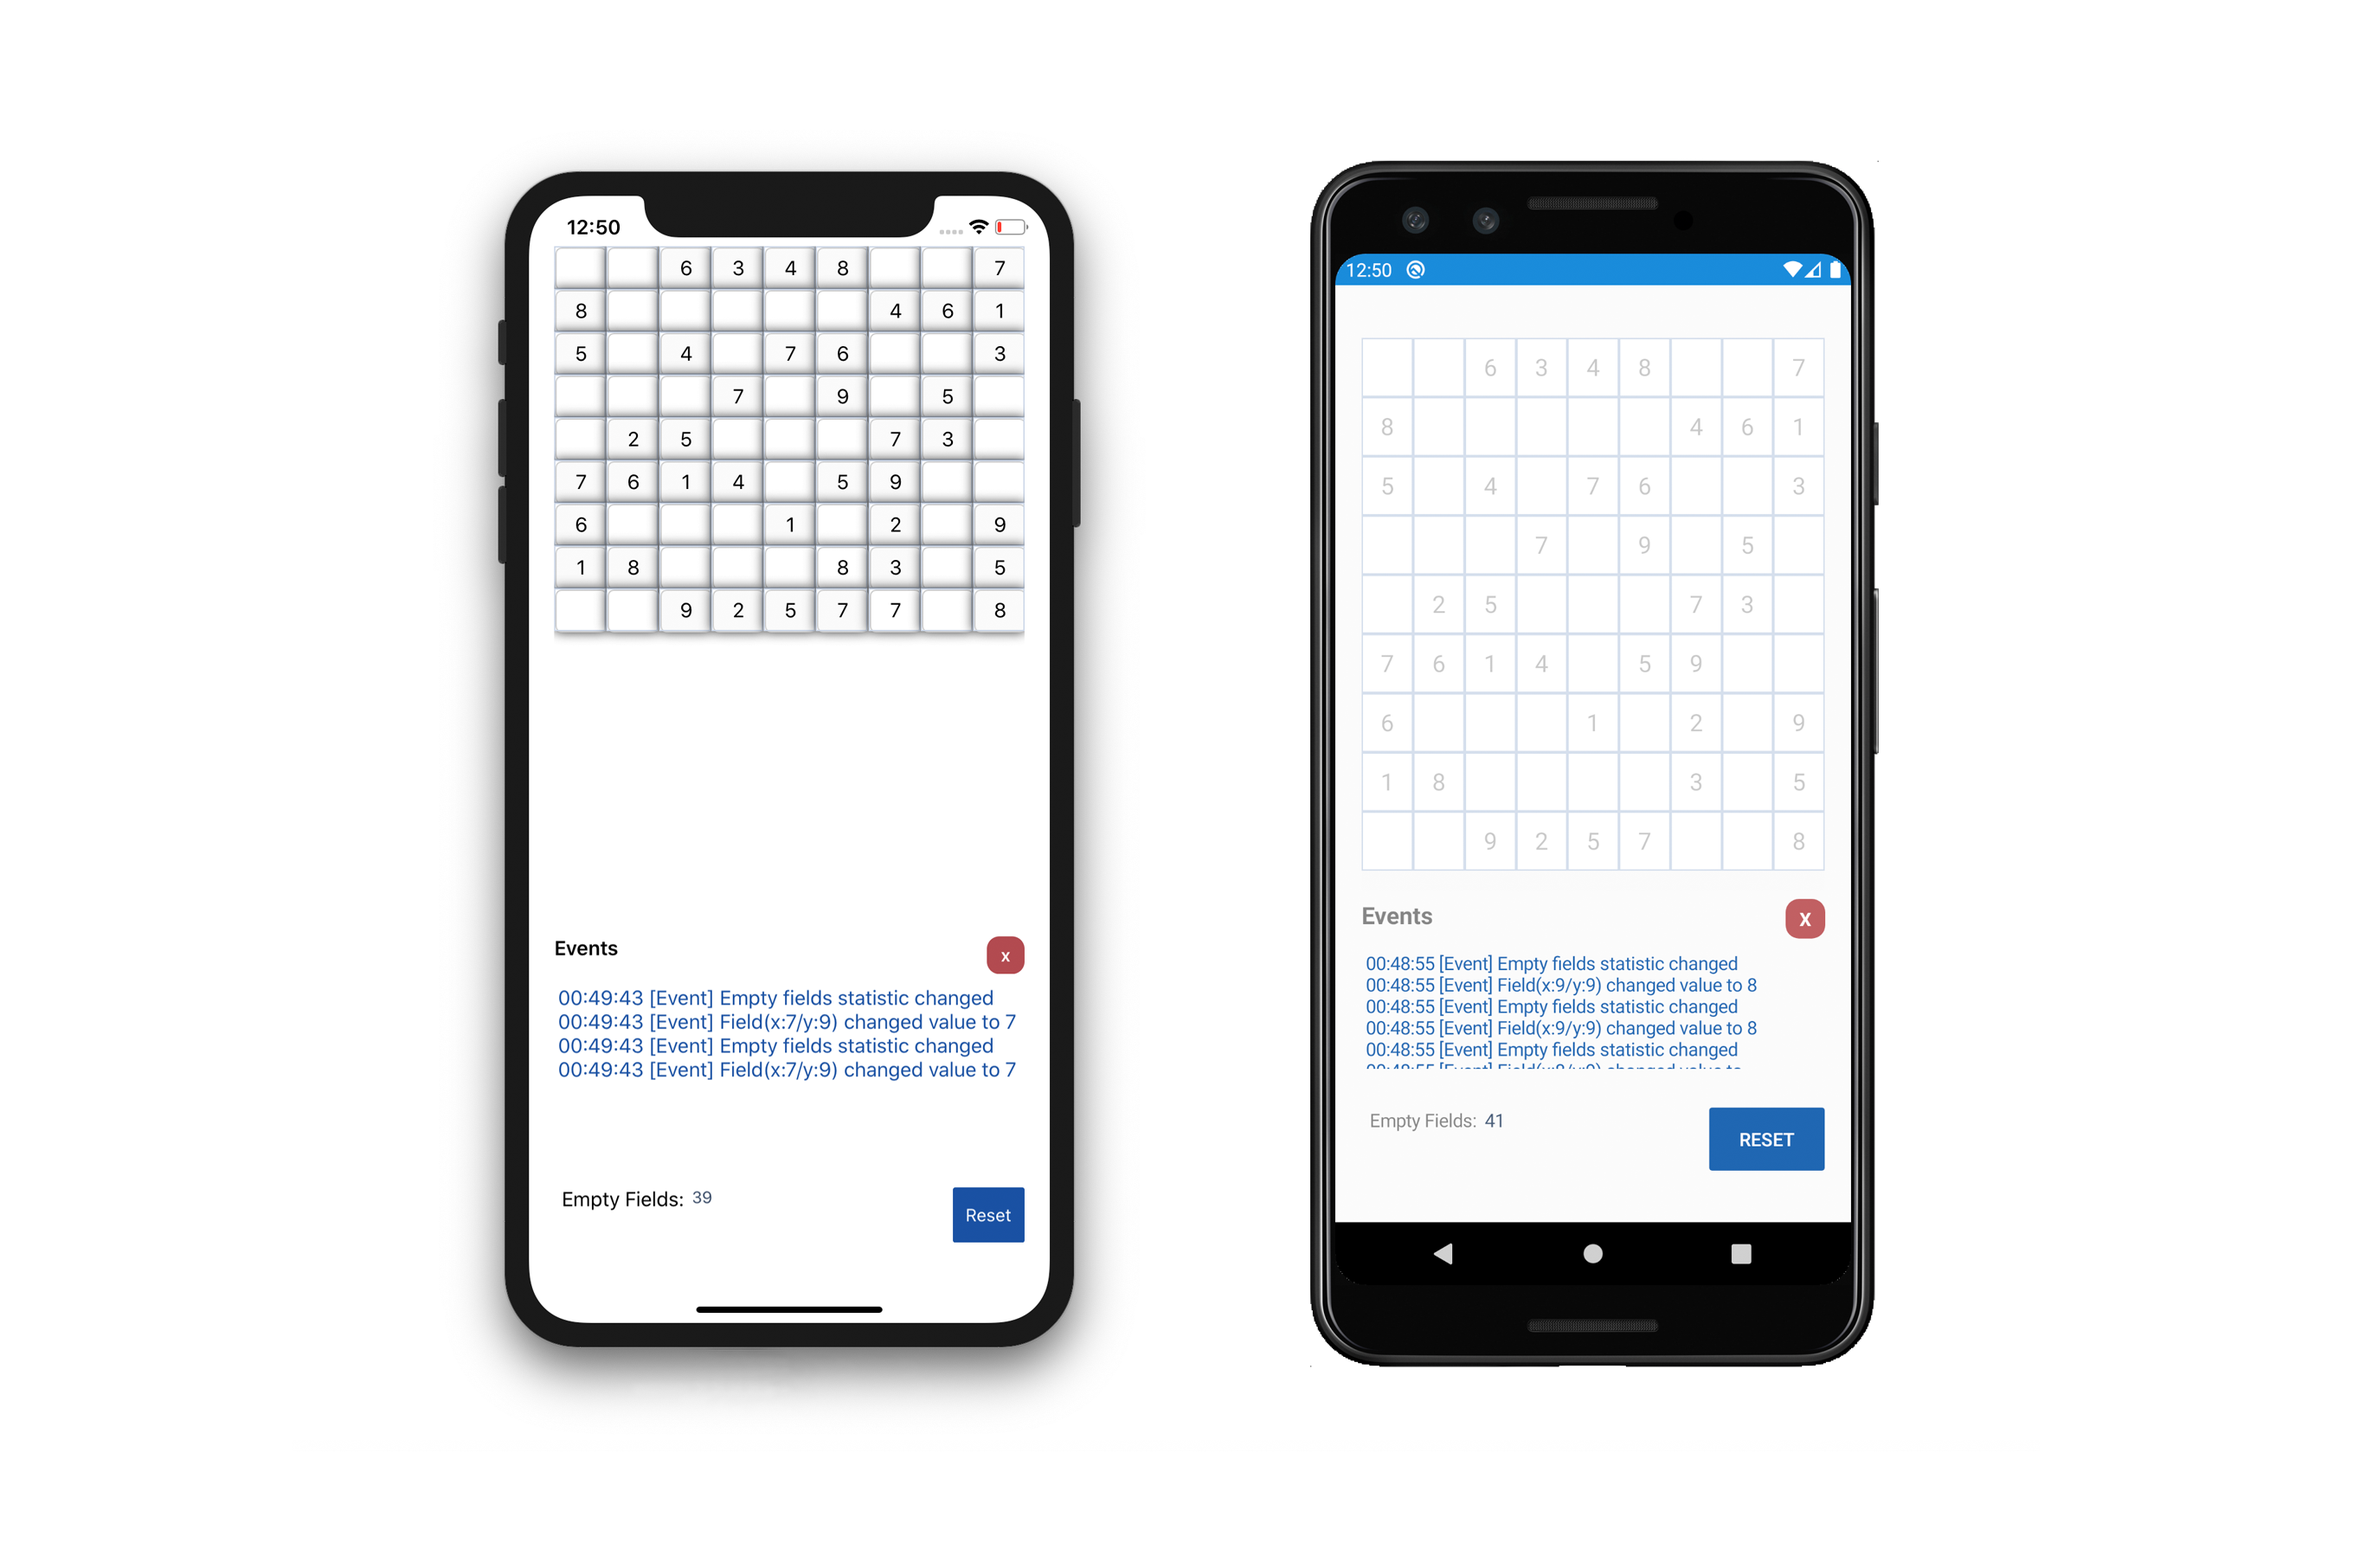
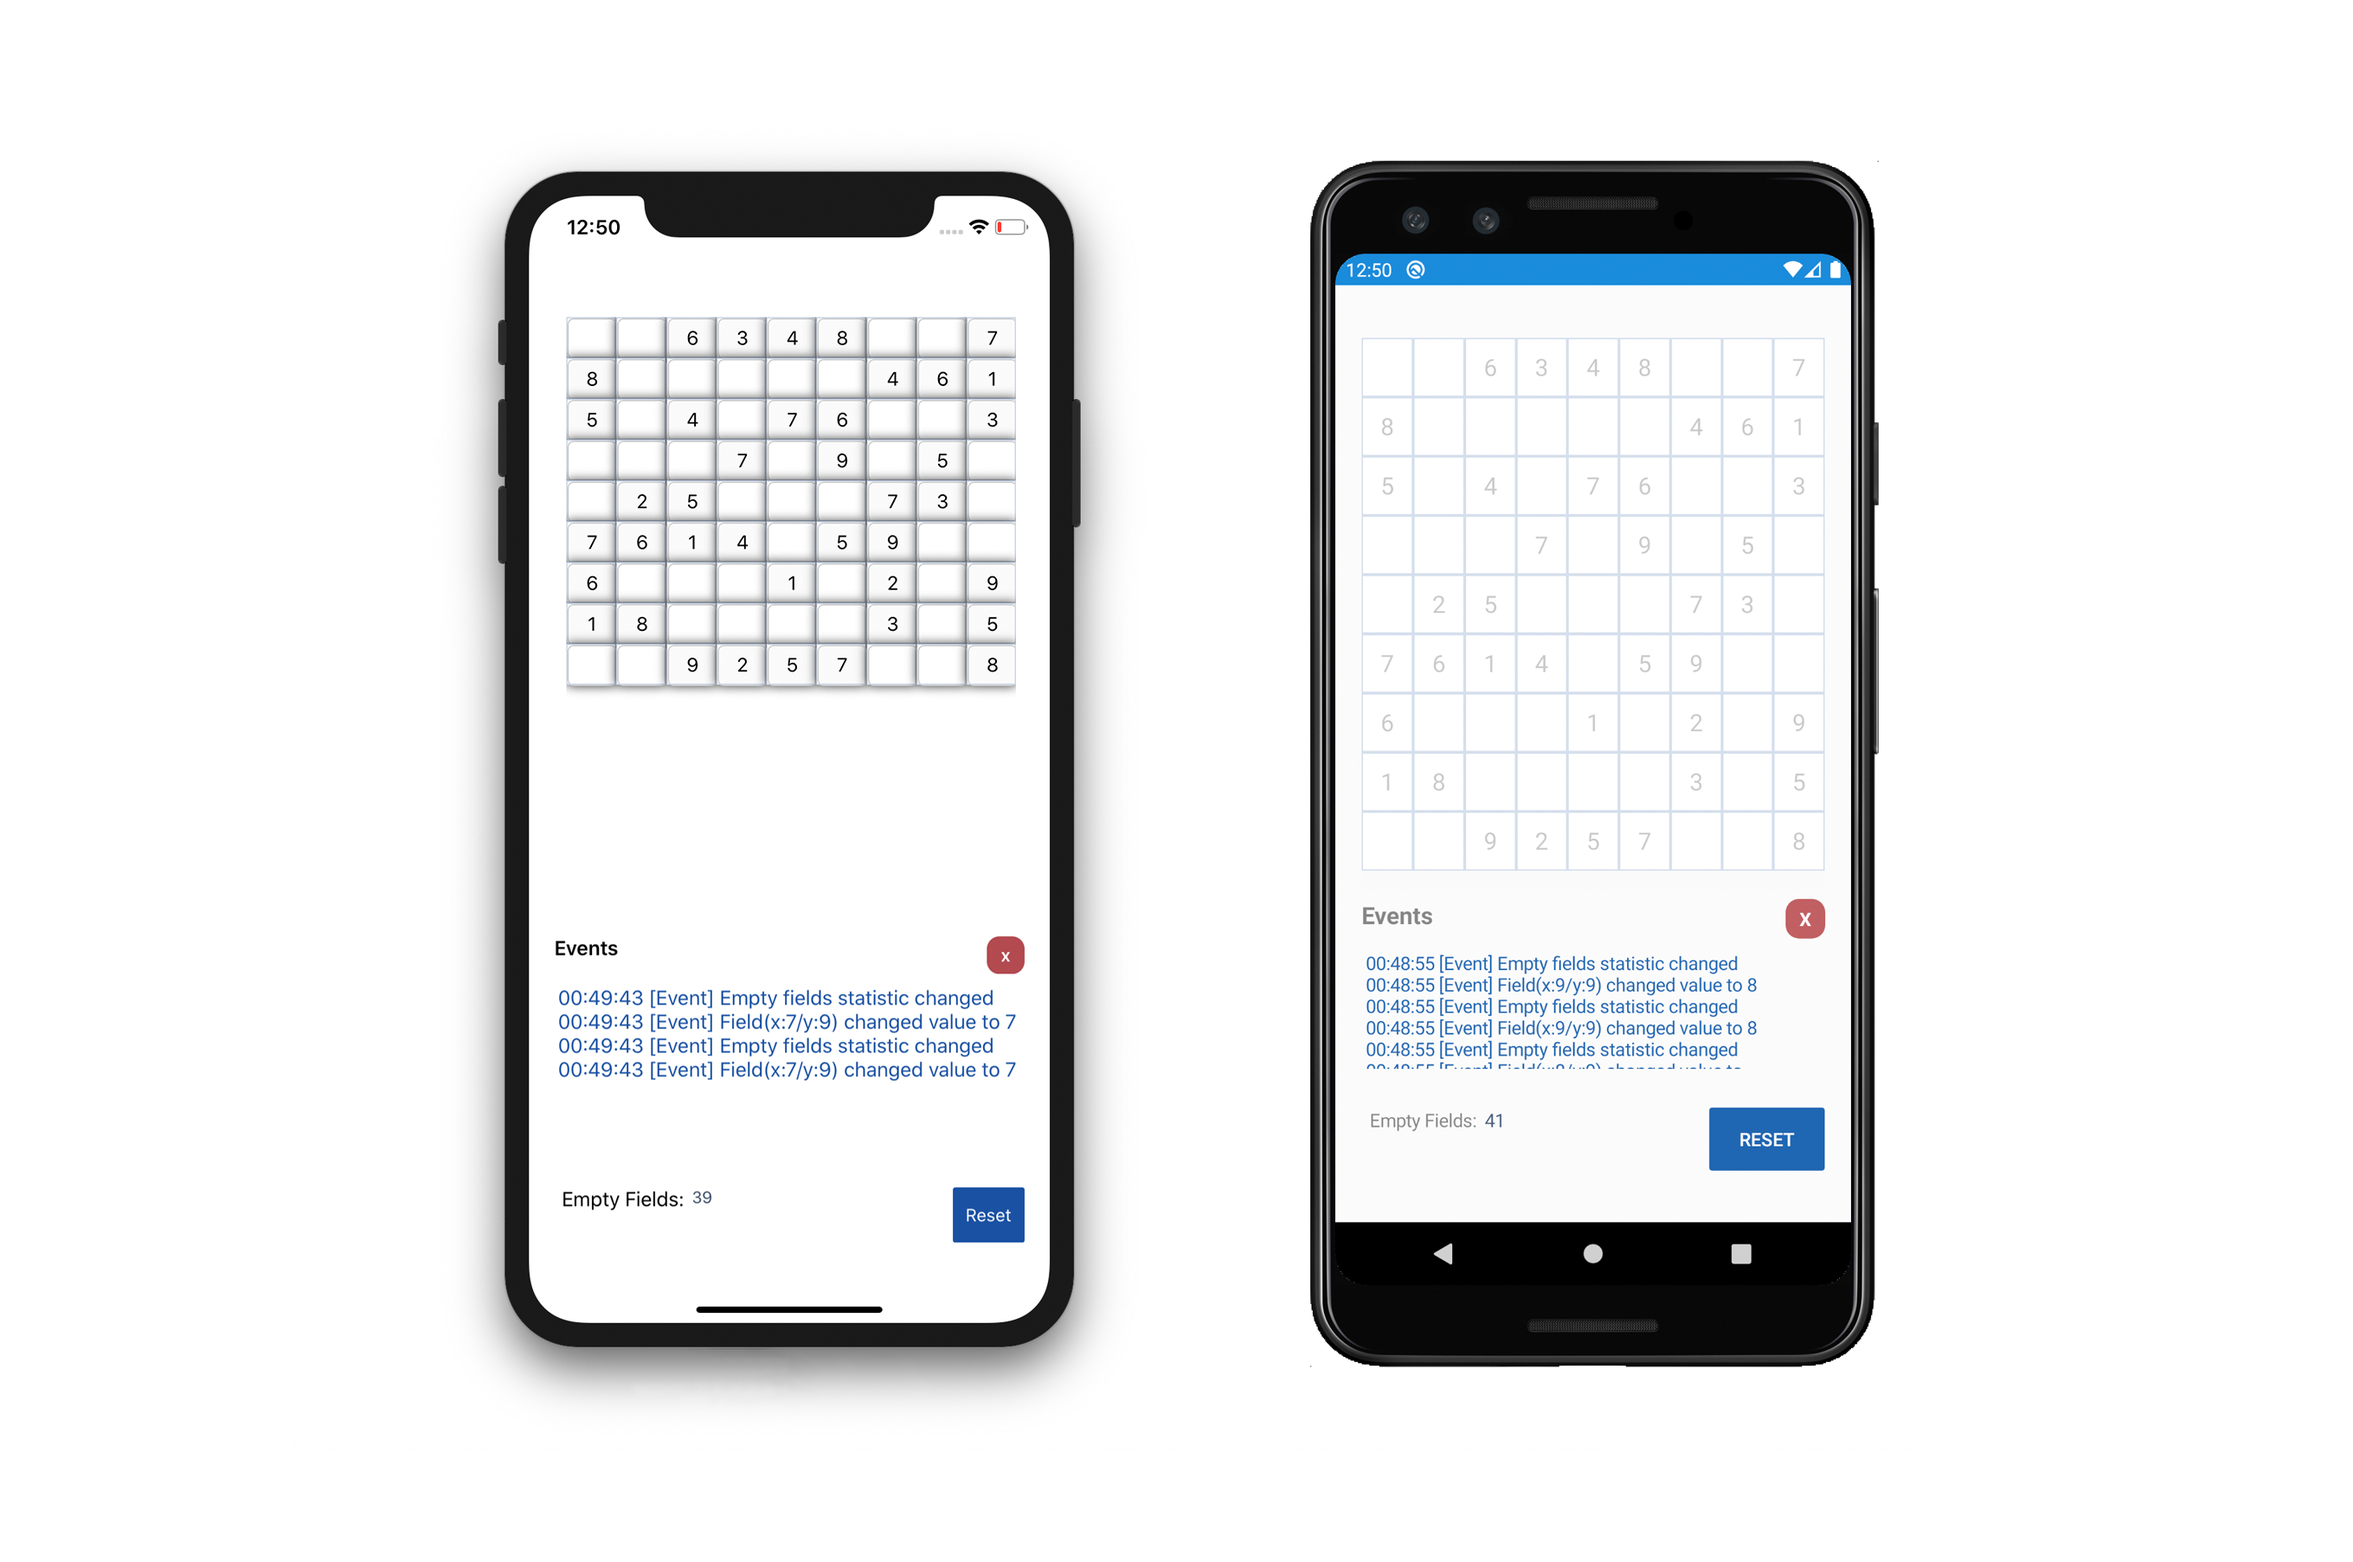
fixed layout on ios and fixed bug on debug log view

Changed region(s): [[0.2163, 0.1551, 0.4325, 0.4654]]

diff --git a/sudoku/Views/MainPage.xaml b/sudoku/Views/MainPage.xaml
@@ -11,16 +11,26 @@
 
     <StackLayout Spacing="10" Orientation="Vertical" StyleClass="Content">
 
-        <Grid>
+        <Grid VerticalOptions="Center">
+
+            <Grid.Margin>
+                <OnPlatform x:TypeArguments="Thickness">
+                    <On Platform="iOS" Value="0,80,0,0" />
+                    <On Platform="Android, WinPhone, Windows" Value="0,20,0,0" />
+                </OnPlatform>
+            </Grid.Margin>
+
             <Grid.RowDefinitions>
                 <RowDefinition Height="6*" />
-                <RowDefinition Height="2*" />
+                <RowDefinition Height="2*"  />
                 <RowDefinition Height="1*" />
             </Grid.RowDefinitions>
 
-            <CollectionView Grid.Row="0" ItemsSource="{Binding GridFields, Mode=TwoWay}"
-                        StyleClass="Grid"
-                        SelectionMode="None">
+            <CollectionView Grid.Row="0"
+                            ItemsSource="{Binding GridFields, Mode=TwoWay}"
+                            VerticalOptions="Center"
+                            StyleClass="Grid"
+                            SelectionMode="None">
 
                 <CollectionView.ItemsLayout>
                     <GridItemsLayout Orientation="Vertical" Span="9" />

diff --git a/sudoku/Styles/MainPage.css b/sudoku/Styles/MainPage.css
@@ -3,7 +3,7 @@
 }
 
 .Grid {
-    margin-top: 20;
+    
 }
 
 .cellEdit {

diff --git a/sudoku/ViewModels/MainPageViewModel.cs b/sudoku/ViewModels/MainPageViewModel.cs
@@ -186,7 +186,9 @@ namespace sudoku.viewmodel
 
         private void Log(string type, string message)
         {
-
+            if (_debugConsole == null) {
+                _debugConsole = "";
+            }
             _debugConsole = DateTime.Now.ToString("HH:mm:ss") + " [" + type + "] " + message + "\n" + _debugConsole;
             Notify(nameof(DebugConsole));
 
